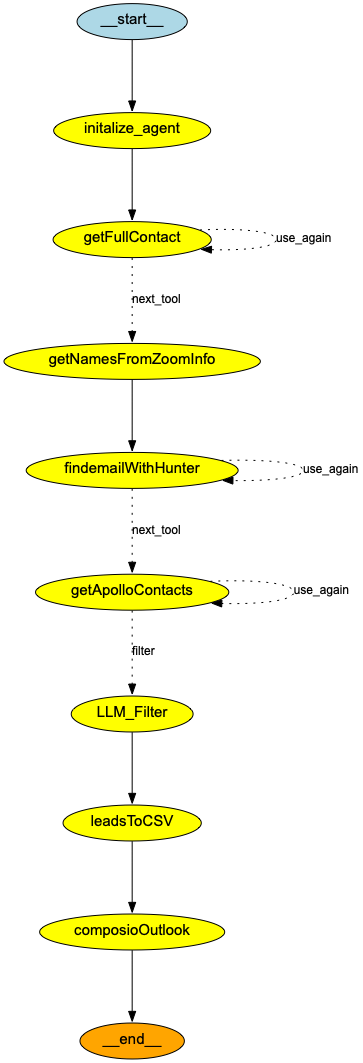
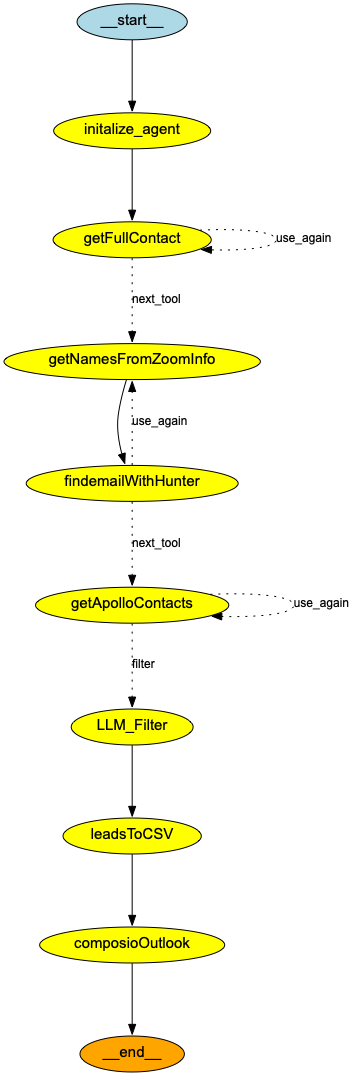
updated graph

diff --git a/agent.py b/agent.py
@@ -653,7 +653,7 @@ graph.add_edge("getNamesFromZoomInfo", "findemailWithHunter")
 graph.add_conditional_edges(
     "findemailWithHunter", 
     useHunterAndZoomAgain, 
-    {"use_again": "findemailWithHunter", "next_tool": "getApolloContacts"}
+    {"use_again": "getNamesFromZoomInfo", "next_tool": "getApolloContacts"}
 ) 
 graph.add_conditional_edges("getApolloContacts", useApolloAgain, {"use_again": "getApolloContacts", "filter": "LLM_Filter"}) 
 graph.add_edge("LLM_Filter", "leadsToCSV") 
